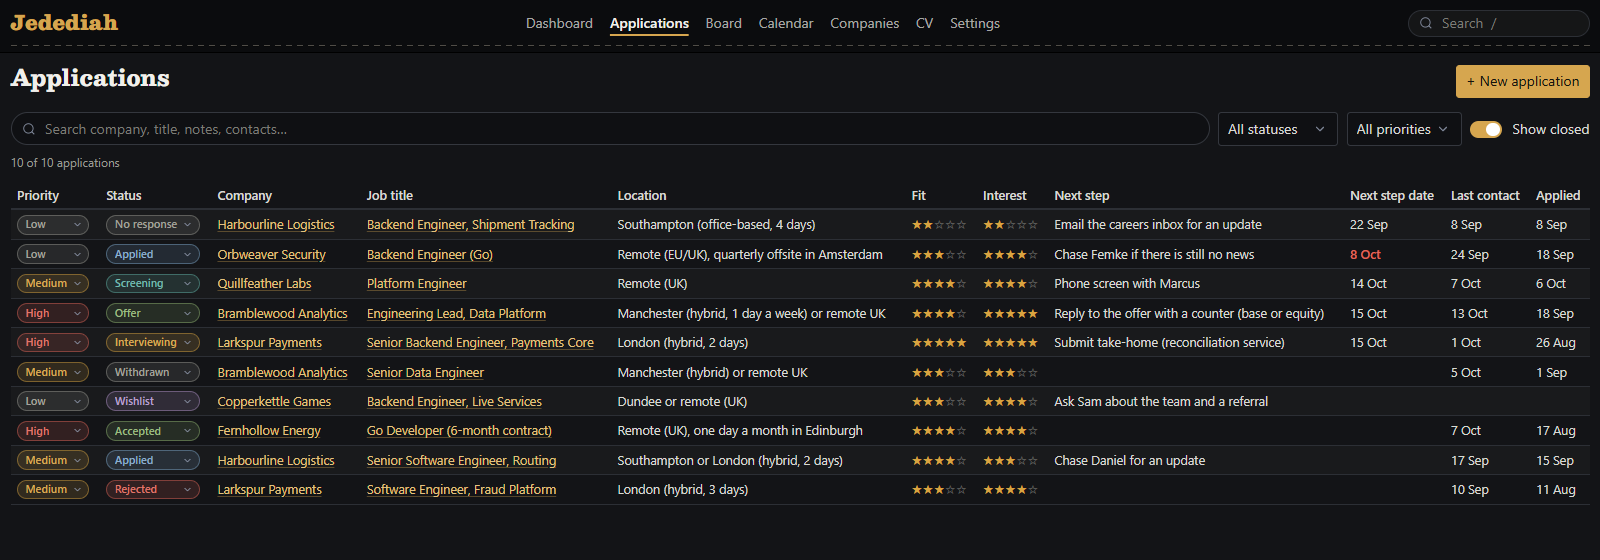
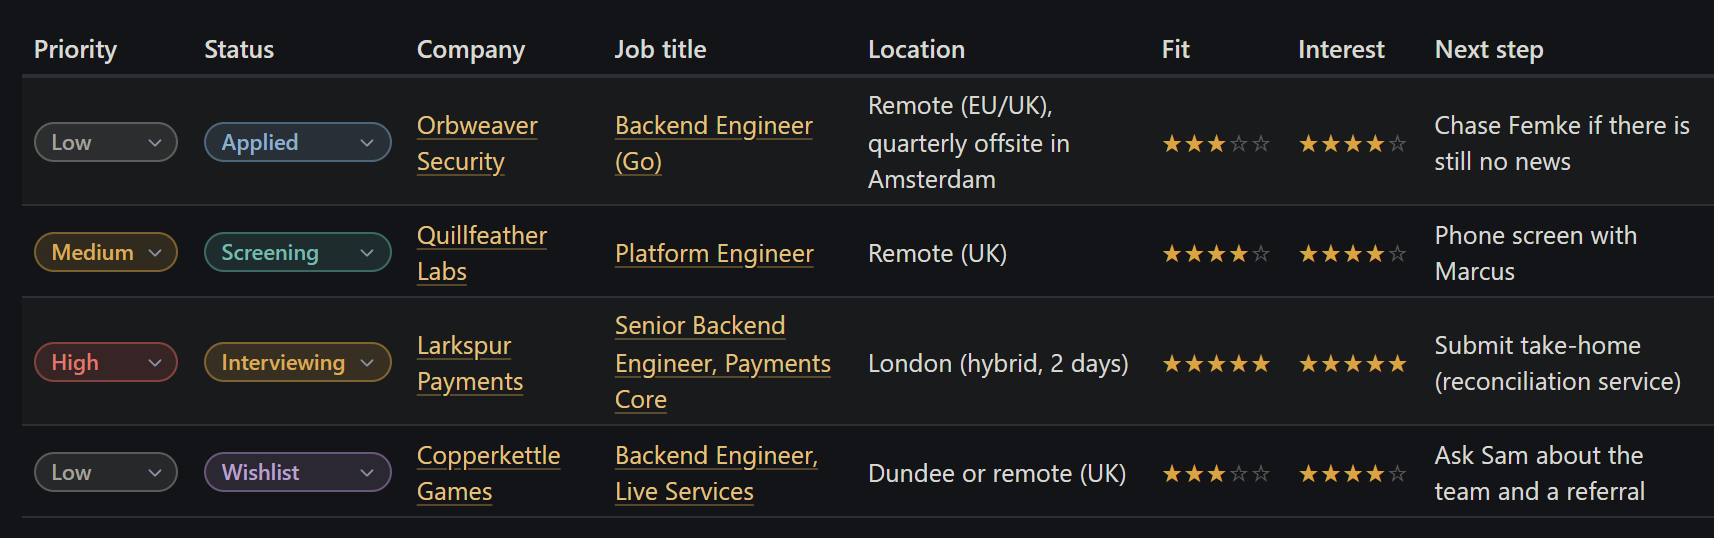
Improve README.md

diff --git a/README.md b/README.md
@@ -3,20 +3,29 @@
 _Named for Jedediah Smith (1799–1831), fur trapper and pathfinder of the American West._
 
 Jedediah tracks your job applications. It runs on your own computer and you use it in the browser:
-where you applied, who you talked to, upcoming interviews, and what to do next and when. Your data
-stays on your machine as plain YAML files you can read and back up. There is no account and no
-cloud, and it works offline.
+where you applied, who you talked to, upcoming interviews, and what to do next and when. 
 
-![Dashboard: overdue actions, follow-ups, the pipeline and the next two weeks](docs/screenshots/dashboard.png)
+Your data stays on your machine as plain YAML files you can read and back up. 
+
+There is no account and no cloud, and it works offline.
+
+![Dashboard: overdue actions, follow-ups, the pipeline and the next two weeks](docs/screenshots/overview.png)
 
 Every application in one table, which you can filter, sort, and search:
 
 ![Applications table](docs/screenshots/applications.png)
 
 Everything about one application on one page: company, contacts, the posting, the hiring process,
-interviews, questions and answers, compensation, and notes. Click any field to edit it.
+interviews, questions and answers, compensation, and notes. The key dates and the next step are at
+the top:
 
-![Application page](docs/screenshots/application.png)
+![Application page header: key dates, next step, priority and status](docs/screenshots/application-header.png)
+
+![Job Application and Contacts cards](docs/screenshots/application-cards.png)
+
+Click any field to edit it:
+
+![The Interviews card, and the same card while editing](docs/screenshots/application-edit.png)
 
 A board to drag applications from one status to the next:
 
